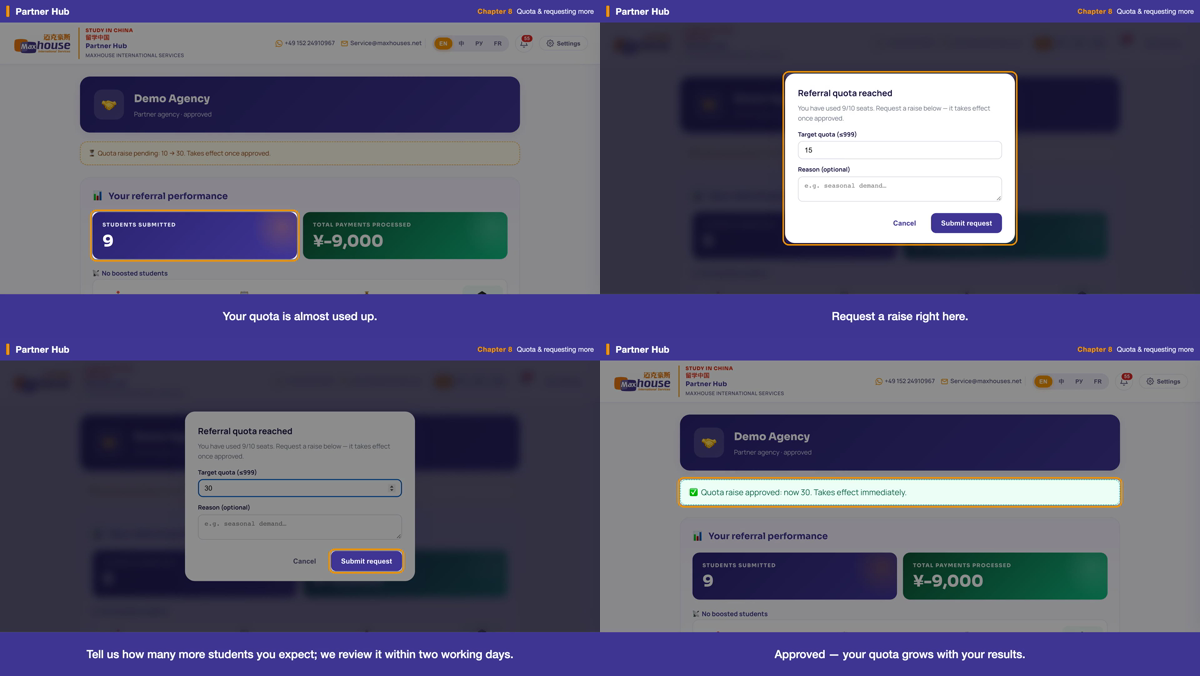
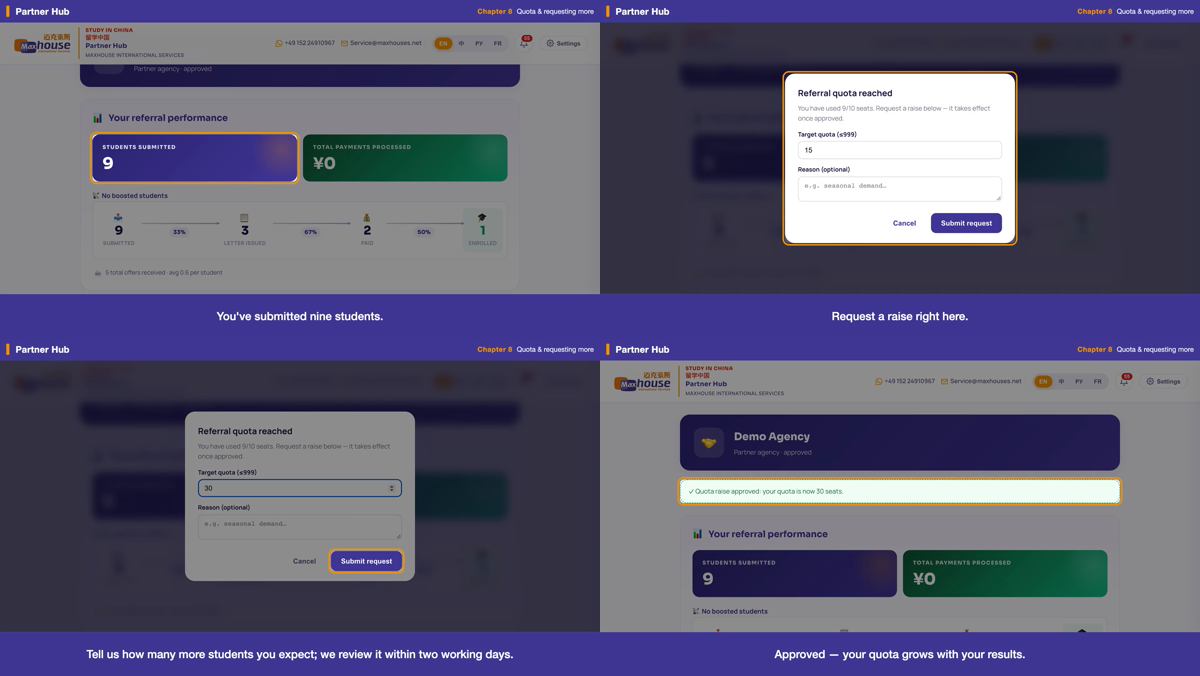
JOB-GP1 trip32: ch8 名额/提额章 v185 四语横竖定版重录(review1 §三.7+§一)——录前 scoped 去 pending 提额横幅(8-1 无矛盾横幅)、8-1 字幕改述 STUDENTS SUBMITTED 9、8-4 改产品自身 _qrApplyBanner 喂样例渲染真绿条。四语 ch8 联络表(land+port)+4 REVIEW(ch8 §11 四镜全是)+决定账+PROGRESS。verify 17/17 PASS。

diff --git a/JOB-GP1-03-PROGRESS.md b/JOB-GP1-03-PROGRESS.md
@@ -1,4 +1,16 @@
-最后一趟：2026-10-12 第31趟 返工：**做了**＝ch7 工作台章（state 章·最复杂章）v185 四语横竖定版重录，一并落 review1 §二.3 + §三.5 + §一。**§二.3（7-1 两段高亮）**：给 rec.mjs follow() 加 `hl2`（前半 dwell 框 hl、后半切 hl2），7-1 先框真揭晓校名条 `.admission-id-tag--unlocked`（🔓 Demo University·演示大学·Wuhan/武汉·SCH-1AD6C8）、再框下载钮 `.admission-doc-btn-letter`——完成 trip21 明文「待 ch7 一并做」的两段高亮；7-1 字幕/配音 trip21 已改，本趟只改高亮。亲验 en-land phase1(f00032)/phase2(f00037) 原始帧达标，8 录屏 7-1 hl+hl2 全 resolve。**§三.5（7-4 字幕对账）**：读源实证病根＝卡徽章 `s.status=r.stage||'pending'`(L7311) 读废弃列 students.stage（恒 NULL，与缺陷2/漏斗同根）→ 恒 pending、gate_open 覆盖成蓝「Documents approved·matching」，产品**从不在列表卡徽章真显 enrolled**（已知产品问题，trip28 已记、留 SUMMARY）；但卡**状态行** `.partner-student-issue`（源 cloudTl.completed）稳定真显「⏳ Admission complete」＝review1 §三.5 观察——走 §三.5 兜底，7-4 字幕由「Enrolled. Done.」改**与状态行逐字一致**：en「Admission complete.」/ zh「录取完成。」/ ru「Зачисление завершено.」/ fr「Admission terminée.」，四语重配音。亲验四语 7-4 真帧：产品**真本地化**渲染状态行、与字幕**逐字对账**（ru/fr 非英文回退）。未改产品码。**§一**：7-4 卡「Invested ¥0」无负数（v185，缺陷1 销账）。state 章安全闸：先空跑状态往返证复位可靠（dirty→reset→verify 17/17）；每片前 st-pt07-pay-cleanup（每片 7-0 真付 ¥0 写 letter_paid_at）+ 末 st-pt0708-reset-cleanup。8 片全 res OK+audio yes+no @gmail+5 镜 hl 全 resolve（7-1 含 hl2）。时长 land en44.66/zh44.00/ru43.29/fr43.60·port en43.29/zh43.24/ru43.23/fr43.52s。开工+收工 verify **17/17 PASS 0 FAIL**，baseline 守住（scoped 复位）。ch7 v1 早在 _v1/ 留底、dist 覆盖 v2。**全片不重拼**（待全部工作台章完后统一拼）。主仓库点名提交 JOB-GP1（b7a4ad4）不推；四语 ch7 联络表(land+port)+4 REVIEW+决定账+PROGRESS 推 mh-jobs。**下趟**＝下一含工作台章定版重录（ch8 §三.7 横幅 scoped 撤待审提额 / ch5 5-1+5-4 两态 / ch9 v185 背景重录 / ch10 / OP-3·4·5 开场快剪），一趟一章；全部完后四语过十一项重审+重拼全片→写 SUMMARY-GP1。**GP-1 未收官，勿据旧『收官』停工。**
+最后一趟：2026-10-13 第32趟 返工：**做了**＝ch8 名额/提额章（state 章）v185 四语横竖定版重录，落 review1 §三.7 + §一。**§三.7（8-1 横幅矛盾）**：基线有一张 pending quota_request（verify #13）→ 工作台顶恒显 amber「Quota raise pending: 10→30」，与 8-2/8-3「才去申请」矛盾。读产品源（partner v185 L14679-14757 `_qrApplyBanner`）定逻辑：pending 行→amber 横幅；否则看最新裁决行，decided_at 空→box 空。做法＝新建 `st-ch8-quota-off.sql` 单列可逆 UPDATE 把该行 `status='pending'→'approved'`（decided_at 保持 NULL）→ 横幅清空（8-1/8-2/8-3 无横幅），`referral_quota` 不动（仍 10，hero 数字不变）；录后 `st-ch8-quota-restore.sql` 还原 pending → verify #13 回基线。**8-1 字幕随 §11 改**：产品无常驻名额表（§三.1 已证），去横幅后 8-1 高亮 `.partner-stats-hero-card` 仅显「STUDENTS SUBMITTED 9」→ 字幕「Your quota is almost used up.」改述屏真有的数「You've submitted nine students.」（zh「你已提交九名学生。」/ru/fr 重译回译），四语重配音；「名额已满」语境由 8-2 弹窗标题「Referral quota reached · used 9/10」承接，8-2 不改。**8-4 改前端伪造为产品自身渲染（§8 先例）**：旧 8-4 改写 pending 卡造绿条（去横幅后无此卡）→ 改调产品自身 `_qrApplyBanner()` 喂样例已批数据，hl 改 `#qrPendingBanner`，渲染真·绿条——zh 真中文「提额申请已批准：配额已调整为 30 席」、en/ru/fr 走产品 LL 的 EN 回退（＝D-18-4 记录的真产品行为）；因 hero 卡不显名额数，8-4「now 30 seats」与屏上无名额数字冲突（§十 数字一致守住）。**§一**：8-1/8-4 hero「TOTAL PAYMENTS PROCESSED ¥0」无负数（缺陷1 销账）。登录态只读探针 `_probe-ch8-fns.mjs` 实证产品函数/let 变量 eval 可达 + 喂样例渲染真绿条。8 片全 res OK+audio yes+no @gmail+4 镜 hl 全 resolve。亲验：EN land 8-1（无横幅框 9）/8-4（产品绿条非伪造）原始帧 + 四语 land 联络表 + en-port 联络表（§11 四镜全「是」，写入 REVIEW-*-shots）。时长 land en30.32/zh28.31/ru30.80/fr31.89·port en30.07/zh28.26/ru30.80/fr31.68s。开工+收工 verify **17/17 PASS 0 FAIL**，baseline 守住（scoped 复位，无全量 rebuild）。ch8 v1 早在 _v1/ 留底、dist 覆盖 v2。**全片不重拼**（待全部工作台章完后统一拼）。主仓库点名提交 JOB-GP1 不推；四语 ch8 联络表(land+port)+4 REVIEW+决定账+PROGRESS 推 mh-jobs。**下趟**＝下一含工作台章定版重录（ch5 5-1 工作台+5-4 两态 / ch9 9-2·9-3 已改需 v185 背景重录 / ch10 读-only / OP-3·4·5 开场快剪），一趟一章；全部完后四语过十一项重审+重拼全片→写 SUMMARY-GP1。**GP-1 未收官，勿据旧『收官』停工。**
+
+# 第 32 趟（2026-10-13 Mac mini 无人值守）· ch8 名额/提额章 v185 定版重录（review1 §三.7 + §一）
+- **接手核对**：git status + 读齐 PROGRESS/loop-tail/RULING-b-review1/-c-rework/-d-funnel/-e-v185-live/-gp1/DECISIONS/storyboard/QUEUE。trip31 ch7 已定版；下趟列 ch8 首。首行开工即改「返工进行中」，开工 verify **17/17 PASS**。
+- **取证（只读探针，不写库）**：`_probe-ch8-quota.sql`/`_probe-ch8-qrrow.sql`（基线 pending quota_request 全字段 + status check 约束）、`_probe-ch8-fns.mjs`（登录态·证产品 `_qrApplyBanner`/`_qrOpenRaise` eval 可达 + let 变量可赋值 + 喂样例渲染真绿条 + `#qrPendingBanner` 在）。读产品源定横幅逻辑。
+- **改法**：见首行 + D-32-1。state：st-ch8-quota-off/restore（单列可逆 UPDATE，无 delete/reinsert/FK）。shots-v1.json 8-1 cap + 8-4 pre/hl 重写；captions-v1.json 8-1 四语；tts `--force-ids 8-1` 四语重配。
+- **录制闭环**：verify 17/17 → st-ch8-quota-off → en-land 亲验 → 批量录 7 变体（带引号位置参数避 LEDGER-3）→ 合成 8 → st-ch8-quota-restore → 收工 verify 17/17。
+- **自验**：8 片 res/audio/no-@gmail/hl 全过；亲验 EN land 8-1/8-4 原始帧 + 四语联络表；§十一对账四语写 REVIEW-*-shots.md（ch8 节）。
+- **DB**：开工+收工 verify **17/17 PASS 0 FAIL**，零残留。
+- **改了**（主仓库，点名 JOB-GP1，不推）：states/st-ch8-quota-off.sql(新)、states/st-ch8-quota-restore.sql(新)、rec/shots-v1.json(8-1/8-4)、captions-v1.json(8-1)、rec/_probe-ch8-*(3 新·只读)、REVIEW-{en,zh,ru,fr}-shots.md、DECISIONS.md。voice/8-1 四语重配、成片不入 git；ch8 v1 在 _v1/、dist 覆盖 v2。四语 ch8 联络表+4 REVIEW+决定账+PROGRESS 推 mh-jobs。
+- **下趟**：ch5/ch9/ch10/OP-3·4·5，一趟一章；全部完后十一项重审+重拼全片→写 SUMMARY-GP1。GP-1 未收官。
+
+【上一趟（第31趟）首行存档】最后一趟：2026-10-12 第31趟 返工：**做了**＝ch7 工作台章（state 章·最复杂章）v185 四语横竖定版重录，一并落 review1 §二.3 + §三.5 + §一。**§二.3（7-1 两段高亮）**：给 rec.mjs follow() 加 `hl2`（前半 dwell 框 hl、后半切 hl2），7-1 先框真揭晓校名条 `.admission-id-tag--unlocked`（🔓 Demo University·演示大学·Wuhan/武汉·SCH-1AD6C8）、再框下载钮 `.admission-doc-btn-letter`——完成 trip21 明文「待 ch7 一并做」的两段高亮；7-1 字幕/配音 trip21 已改，本趟只改高亮。亲验 en-land phase1(f00032)/phase2(f00037) 原始帧达标，8 录屏 7-1 hl+hl2 全 resolve。**§三.5（7-4 字幕对账）**：读源实证病根＝卡徽章 `s.status=r.stage||'pending'`(L7311) 读废弃列 students.stage（恒 NULL，与缺陷2/漏斗同根）→ 恒 pending、gate_open 覆盖成蓝「Documents approved·matching」，产品**从不在列表卡徽章真显 enrolled**（已知产品问题，trip28 已记、留 SUMMARY）；但卡**状态行** `.partner-student-issue`（源 cloudTl.completed）稳定真显「⏳ Admission complete」＝review1 §三.5 观察——走 §三.5 兜底，7-4 字幕由「Enrolled. Done.」改**与状态行逐字一致**：en「Admission complete.」/ zh「录取完成。」/ ru「Зачисление завершено.」/ fr「Admission terminée.」，四语重配音。亲验四语 7-4 真帧：产品**真本地化**渲染状态行、与字幕**逐字对账**（ru/fr 非英文回退）。未改产品码。**§一**：7-4 卡「Invested ¥0」无负数（v185，缺陷1 销账）。state 章安全闸：先空跑状态往返证复位可靠（dirty→reset→verify 17/17）；每片前 st-pt07-pay-cleanup（每片 7-0 真付 ¥0 写 letter_paid_at）+ 末 st-pt0708-reset-cleanup。8 片全 res OK+audio yes+no @gmail+5 镜 hl 全 resolve（7-1 含 hl2）。时长 land en44.66/zh44.00/ru43.29/fr43.60·port en43.29/zh43.24/ru43.23/fr43.52s。开工+收工 verify **17/17 PASS 0 FAIL**，baseline 守住（scoped 复位）。ch7 v1 早在 _v1/ 留底、dist 覆盖 v2。**全片不重拼**（待全部工作台章完后统一拼）。主仓库点名提交 JOB-GP1（b7a4ad4）不推；四语 ch7 联络表(land+port)+4 REVIEW+决定账+PROGRESS 推 mh-jobs。**下趟**＝下一含工作台章定版重录（ch8 §三.7 横幅 scoped 撤待审提额 / ch5 5-1+5-4 两态 / ch9 v185 背景重录 / ch10 / OP-3·4·5 开场快剪），一趟一章；全部完后四语过十一项重审+重拼全片→写 SUMMARY-GP1。**GP-1 未收官，勿据旧『收官』停工。**
 
 # 第 31 趟（2026-10-12 Mac mini 无人值守）· ch7 工作台章定版重录 v185（review1 §二.3 + §三.5 + §一）
 - **接手核对**：git status + 读齐 PROGRESS/loop-tail/RULING-b-review1/-c-rework/-d-funnel/-e-v185-live/DECISIONS/storyboard/QUEUE。trip30 ch3 已定版，下趟＝ch7。开工即改首行「返工进行中」，开工 verify **17/17 PASS**。

diff --git a/JOB-GP1-decisions.md b/JOB-GP1-decisions.md
@@ -577,3 +577,17 @@
 - **改了**（主仓库，点名 JOB-GP1，不推）：rec/rec.mjs（+hl2 两段高亮）、rec/shots-v1.json（7-1 hl→校名条+hl2 下载钮、7-4 capEN/capZH→Admission complete/录取完成）、captions-v1.json（7-4 四语）、rec/_probe-ch7-dom.mjs / _probe-ch7-74-langs.mjs / _probe-ch7-74-txt.mjs / _probe-ch7-74-stable.mjs（新·只读探针）、REVIEW-{en,zh,ru,fr}-shots.md、DECISIONS.md。voice/7-4 四语重配（不入 git）；ch7 v1 早在 _v1/ 留底，dist 覆盖 v2。四语 ch7 联络表+4 REVIEW+决定账+PROGRESS 推 mh-jobs。
 - **全片不重拼**：bookend/film/trailer 待全部工作台章定版重录完后统一拼。
 - **下趟**：下一含工作台章定版重录——ch8（§三.7 横幅 scoped 撤待审提额）/ ch5（5-1 工作台 + 5-4 两态）/ ch9（9-2/9-3 已改·需 v185 背景重录）/ ch10 / OP-3·4·5 开场快剪。一趟一章；全部完后四语十一项重审+重拼全片→写 SUMMARY-GP1。**GP-1 未收官。**
+
+## D-32-1（返工第32趟 2026-10-13）· ch8 名额/提额章（state 章）v185 定版重录 · review1 §三.7 + §一
+- **选题**：按 trip31「下趟」与 review1 §八顺序挑 ch8——压着 §三.7（8-1 横幅与 8-2/8-3 叙事矛盾）+ §一（工作台 v185 背景）。开工 verify 17/17 PASS，首行即改「返工进行中」。
+- **取证（只读）**：`rec/_probe-ch8-quota.sql`/`_probe-ch8-qrrow.sql`（基线＝1 张 pending quota_request id=77308181…·requested 30·quota 10·verify #13）；`rec/_probe-ch8-fns.mjs`（登录态探针）实证：产品 `_qrApplyBanner`/`_qrOpenRaise` 均 eval 可达、`let _qrPendingRow/_qrLatestRow/_qrLoaded` 可被 eval 赋值、`#qrPendingBanner` 元素在；喂样例已批数据 → 产品自身渲染绿条「✓ Quota raise approved: your quota is now 30 seats.」(zh 真中文)。读产品源（partner v185 L14679-14757）定横幅逻辑：pending 行→amber；否则看最新裁决行，decided_at 空或超 7 天→box 空。
+- **§三.7 做法（录前 scoped 去横幅，证真态机制）**：
+  - 病：基线 pending 行致工作台顶恒显 amber「Quota raise pending: 10→30」，与 8-2/8-3「才去申请」矛盾。
+  - 法：新建 `states/st-ch8-quota-off.sql`——单列可逆 UPDATE 把该行 `status='pending'→'approved'`（`decided_at` 保持 NULL），产品判非 pending 且最新行未裁决 → 横幅清空；`partners.referral_quota` 不动（仍 10，hero 卡/数字一字不变）。无 delete/无 reinsert/无 FK 触碰。录后 `states/st-ch8-quota-restore.sql` 还原 `status='pending'`+清裁决字段 → verify #13 回基线。
+- **8-1 字幕随 §11 改（四语重配音）**：产品无常驻名额表（review1 §三.1 已证），去横幅后 8-1 高亮 `.partner-stats-hero-card` 仅显「STUDENTS SUBMITTED 9」→ 字幕「Your quota is almost used up.」→「You've submitted nine students.」（zh「你已提交九名学生。」/ ru「Вы подали заявки на девять студентов.」回译=submitted applications for nine students / fr「Vous avez soumis neuf étudiants.」）。「名额已满」语境由 8-2 弹窗标题「Referral quota reached · used 9/10」承接 → 8-2 字幕不改。`captions-v1.json` 8-1 四语 + `shots-v1.json` 8-1 capEN/capZH 同步改（en/zh 逐字一致）；`tts-gp1.mjs --force-ids 8-1` 四语重配（新时长 en1.606/zh1.945/ru2.273/fr1.575s，皆在域）。
+- **8-4 改前端伪造为产品自身渲染（§8 先例）**：旧 8-4 `pre` 改写 pending 卡文本造绿条——去横幅后无此卡 → 失效。改调产品自身 `_qrApplyBanner()` 喂样例已批数据（`_qrLatestRow={status:'approved',requested_quota:30,decided_at:new Date()}`），hl 改 `#qrPendingBanner`，expect 改 `['#qrPendingBanner']`，去 `pre_zh`（产品 LL 自动本地化）。渲染真·绿条，zh 真中文「提额申请已批准：配额已调整为 30 席」、en/ru/fr 走产品 LL 的 EN 回退（＝D-18-4 记录的真产品行为，非本趟引入）。因 hero 卡不显名额数，8-4「now 30 seats」横幅与屏上无任何名额数字冲突（§十.数字一致 守住）。
+- **录制闭环**：verify 17/17 → st-ch8-quota-off → 先录 en-land 亲验（8-1 无横幅框 9 / 8-4 产品绿条）→ 批量录其余 7 变体（带引号位置参数 `rec1(){...--orient "$2" --lang "$1"}` 避 LEDGER-3 分词）→ 合成 8 片 → st-ch8-quota-restore → verify 17/17。8 片全 res OK+audio yes+no @gmail+4 镜 hl 全 resolve。
+- **自验**：四语 land 联络表 + en-port 联络表 + EN land 8-1/8-4 原始帧逐张亲验（见 REVIEW-*-shots ch8 节·§11 四镜全「是」）。时长 land en30.32/zh28.31/ru30.80/fr31.89 · port en30.07/zh28.26/ru30.80/fr31.68s。
+- **DB**：ch8 开工+收工 verify **17/17 PASS 0 FAIL**，baseline 守住（scoped 复位，无全量 rebuild）。
+- **改了**（主仓库，点名 JOB-GP1，不推）：`states/st-ch8-quota-off.sql`(新)、`states/st-ch8-quota-restore.sql`(新)、`rec/shots-v1.json`(8-1 cap+action、8-4 pre/hl/expect 重写)、`captions-v1.json`(8-1 四语)、`rec/_probe-ch8-quota.sql`/`_probe-ch8-qrrow.sql`/`_probe-ch8-fns.mjs`(新·只读)、`REVIEW-{en,zh,ru,fr}-shots.md`、`DECISIONS.md`。voice/8-1 四语重配、成片不入 git；ch8 v1 早在 `_v1/` 留底、dist 覆盖 v2。全片不重拼（待全部工作台章完后统一拼）。四语 ch8 联络表(land+port)+4 REVIEW+决定账+PROGRESS 推 mh-jobs。
+- **下趟**：下一含工作台章定版重录——ch5（5-1 工作台 + 5-4 两态·需 st-pt03-reupload 两态分录）/ ch9（9-2/9-3 已改·需 v185 背景重录）/ ch10（读-only）/ OP-3·4·5 开场快剪。一趟一章；全部完后四语十一项重审+重拼全片→写 SUMMARY-GP1。**GP-1 未收官。**

diff --git a/JOB-GP1-REVIEW-en-shots.md b/JOB-GP1-REVIEW-en-shots.md
@@ -127,3 +127,21 @@
 - 时长：land 44.66s / port 43.29s（5 镜）。8 片（四语横竖）全 res OK + audio yes。全片 DOM 扫描 **no @gmail**；8 录屏 5 镜 hl 全 resolve（7-1 含 hl2），零 MISS。
 - 逐张亲眼复验（EN land 全 5 镜原始帧）：7-0 ¥0.00 橙框 + ¥3,000 删除线 + MAXHOUSE（邮箱掩码 agency.demo@example.com、app id MH-NEPTRN）；7-1 phase1 框校名条、phase2 框下载钮（§二.3 达标）；7-4 状态行「⏳ Admission complete」= 字幕逐字、「Invested ¥0」无负数（§一/缺陷1 销账）；无 beta/内测/test 控件；页头平台 WhatsApp/Email 不遮（D-14-3/D-15-1）。
 - 记账（留业主·已知产品问题）：7-4 卡**徽章**「Documents approved · matching」（蓝 pending）对已入学生恒显矛盾——根因 `s.status = r.stage||'pending'`（L7311）读废弃列 students.stage（恒 NULL），非本趟引入，未改产品码（§三.5 兜底），留 SUMMARY。收工 verify 17/17 PASS，baseline 守住。
+
+## ch8 §三.7（横幅：录前 scoped 撤待审提额）+ §一（工作台 v185，返工第32趟 2026-10-13 · 定版重录）
+前置：ch8 是 state 章。基线有一张 pending quota_request（verify #13）→ 工作台顶恒显 amber「Quota raise pending: 10→30」，与 8-2/8-3「才去申请」叙事矛盾（review1 §三.7）。
+- **§三.7 做法**：录前 scoped 把该行 `status='approved'`（`decided_at` 保持 NULL）→ 产品 `_qrApplyBanner` 判非 pending 且最新行未裁决 → 横幅清空（8-1/8-2/8-3 无横幅）；`partners.referral_quota` 不动（仍 10）。录后 restore 还原 pending，verify #13 回基线。
+- **8-1 字幕随 §11 改**：产品**无常驻名额表**（review1 §三.1 已证），去横幅后 8-1 高亮的 `.partner-stats-hero-card` 只显「STUDENTS SUBMITTED 9」→ 字幕由「Your quota is almost used up.」改述屏真有的数「You've submitted nine students.」（四语重配音）；「名额已满」语境由 8-2 弹窗标题「Referral quota reached · used 9/10」承接。
+- **8-4 改前端示意为产品自身渲染**：旧 8-4 改写 pending 卡文本造绿条（去横幅后无此卡）→ 改调产品自身 `_qrApplyBanner()` 喂样例已批数据（§8 先例「用产品自己的渲染函数喂样例」），渲染真·绿条；横幅四语由产品 LL 本地化（zh 真中文、en/ru/fr 走产品 LL 的 EN 回退＝D-18-4 记录的真产品行为）。
+- **§一**：8-1/8-4 工作台 hero「TOTAL PAYMENTS PROCESSED ¥0」无负数（缺陷1 销账）；hero 卡**不显名额数**，故 8-4「now 30 seats」横幅与屏上无任何名额数字冲突。
+
+| 镜 | 字幕原文 | 高亮区 DOM 实际文字（从 v185 真帧 DOM 读） | 同一件事？ |
+|----|----------|---------------------|-----------|
+| 8-1 | You've submitted nine students. | `.partner-stats-hero-card`「STUDENTS SUBMITTED · 9」（**无** pending 横幅；同屏 TOTAL PAYMENTS PROCESSED ¥0 无负数、漏斗 9→3→2→1·5 offer·人均 0.6） | 是 |
+| 8-2 | Request a raise right here. | `.modal-bg.show .modal-body`「Referral quota reached · You have used 9/10 seats. Request a raise below — it takes effect once approved.」+ 目标名额/理由表单 | 是 |
+| 8-3 | Tell us how many more students you expect; we review it within two working days. | `.modal-bg.show .btn-primary`「Submit request」（表单已填目标 30 + 理由；不真提交·零写库） | 是 |
+| 8-4 | Approved — your quota grows with your results. | `#qrPendingBanner`「✓ Quota raise approved: your quota is now 30 seats.」（产品自身 `_qrApplyBanner` 喂样例渲染·§8 先例·绿条） | 是 |
+
+- 时长：land 30.32s / port 30.07s（4 镜）。8 片（四语横竖）全 res OK + audio yes。全片 DOM 扫描 **no @gmail**；8 录屏 4 镜 hl 全 resolve、零 MISS。
+- 逐张亲眼复验（EN land 8-1/8-4 原始帧 + 四语 land 联络表 + en-port 联络表）：8-1 **无 pending 横幅**、框住 STUDENTS SUBMITTED 9（§三.7 达标）；8-4 产品绿条「approved: now 30 seats」（非伪造 HTML）；全程 ¥0 无负数、Demo Agency 无真 PII、邮箱掩码、无 beta/内测/test 控件、页头平台 WhatsApp/Email 不遮（D-14-3/D-15-1）。
+- 记账：8-3 不真提交（零写库）；录前 st-ch8-quota-off（status→approved/decided_at NULL）、录后 st-ch8-quota-restore（→pending）；开工+收工 verify 17/17 PASS，baseline 守住（scoped 复位，无全量 rebuild）。

diff --git a/JOB-GP1-REVIEW-ru-shots.md b/JOB-GP1-REVIEW-ru-shots.md
@@ -85,3 +85,16 @@ D-18-4：RU 界面里产品动态串回退成英文（PREMIUM SERVICES / Audit S
 
 - 时长：land 43.293401s / port 43.234512s（5 镜）。横竖 2 片 res OK + audio yes，no @gmail，5 镜 hl 全 resolve（7-1 含 hl2）。章节条左标签 Partner Hub（D-18-4/RULING-c §3）；页头平台 WhatsApp/Email 不遮。
 - 记账（留业主·已知产品问题）：7-4 卡徽章「Документы одобрены · подбор」对已入学生恒显矛盾（根因 students.stage 恒 NULL），未改产品码（§三.5 兜底），留 SUMMARY。
+
+## ch8 §三.7（横幅：录前 scoped 撤待审提额）+ §一（工作台 v185，返工第32趟 2026-10-13）
+做法同 en/zh 节。RU 界面动态串走产品 LL 的 EN 回退（D-18-4 记录的真产品行为），故 8-2「Referral quota reached」/8-4「Quota raise approved: now 30 seats」横幅为英文；字幕为俄文，描述同一件事。8-1 字幕随 §11 改述「STUDENTS SUBMITTED 9」。
+
+| 镜 | 字幕原文(ru) | 高亮区 DOM 实际文字（产品 EN 回退） | 同一件事？ |
+|----|----------|---------------------|-----------|
+| 8-1 | Вы подали заявки на девять студентов. | `.partner-stats-hero-card`「STUDENTS SUBMITTED · 9」（无横幅；¥0 无负数、漏斗 9→3→2→1） | 是 |
+| 8-2 | Запросите увеличение прямо здесь. | `.modal-bg.show .modal-body`「Referral quota reached · used 9/10 seats」+ 表单 | 是 |
+| 8-3 | Укажите, сколько ещё студентов вы ожидаете; мы рассмотрим запрос за два рабочих дня. | `.modal-bg.show .btn-primary`「Submit request」（表单已填 30 + 理由） | 是 |
+| 8-4 | Одобрено — квота растёт вместе с вашими результатами. | `#qrPendingBanner`「✓ Quota raise approved: your quota is now 30 seats.」（产品自身 `_qrApplyBanner` 喂样例） | 是 |
+
+- 时长：land 30.80s / port 30.80s（4 镜）。全 res OK + audio yes，no @gmail，4 镜 hl 全 resolve。
+- 亲验 ru land 联络表四镜：8-1 无横幅框 9、章节条俄文「Глава 8 · Квота и увеличение」、8-4 绿条（EN 回退·产品渲染）；¥0 无负数、无 beta。收工 verify 17/17 PASS。

diff --git a/JOB-GP1-REVIEW-zh-shots.md b/JOB-GP1-REVIEW-zh-shots.md
@@ -94,3 +94,16 @@
 
 - 时长：land 43.997846s / port 43.244172s（5 镜）。横竖 2 片 res OK + audio yes，no @gmail，5 镜 hl 全 resolve（7-1 含 hl2）。亲验 zh-land 联络表：7-0 ¥0 橙框、7-1 校名条揭晓、7-4 状态行「录取完成」= 字幕逐字、「Invested ¥0」无负数、页头平台 WhatsApp/Email 不遮。
 - 记账（留业主·已知产品问题）：7-4 卡徽章「材料已通过·匹配中」对已入学生恒显矛盾（根因 students.stage 恒 NULL），未改产品码（§三.5 兜底），留 SUMMARY。
+
+## ch8 §三.7（横幅：录前 scoped 撤待审提额）+ §一（工作台 v185，返工第32趟 2026-10-13）
+处理同 REVIEW-en-shots 的 ch8 节：录前 scoped 置该 pending quota_request `status='approved'`（decided_at NULL）→ 去横幅；8-1 字幕随 §11 改为述屏真有的「STUDENTS SUBMITTED 9」；8-4 改调产品自身 `_qrApplyBanner` 喂样例（§8 先例），中文横幅走产品真中文渲染。录后 restore 回 pending。
+
+| 镜 | 字幕原文 | 高亮区 DOM 实际文字 | 同一件事？ |
+|----|----------|---------------------|-----------|
+| 8-1 | 你已提交九名学生。 | `.partner-stats-hero-card`「已提交学生总数 · 9」（无提额横幅；同屏 ¥0 无负数、漏斗 9→3→2→1·5 offer·人均 0.6） | 是 |
+| 8-2 | 在这里申请提额。 | `.modal-bg.show .modal-body`「推荐名额已用完 · 当前 9/10 席已用。可向平台申请提额，批准后立即生效。」+ 表单 | 是 |
+| 8-3 | 填预计人数，平台 2 个工作日内审核。 | `.modal-bg.show .btn-primary`「提交申请」（表单已填目标 30 + 理由；不真提交） | 是 |
+| 8-4 | 已批，名额随业绩增长。 | `#qrPendingBanner`「✓ 提额申请已批准：配额已调整为 30 席。」（产品自身 `_qrApplyBanner` 喂样例·绿条） | 是 |
+
+- 时长：land 28.31s / port 28.26s（4 镜）。全 res OK + audio yes，no @gmail，4 镜 hl 全 resolve。
+- 亲验 zh land 联络表四镜：8-1 无横幅框 9、8-2 真中文「推荐名额已用完」、8-4 真中文绿条「提额申请已批准：配额已调整为 30 席」；¥0 无负数、演示生无真 PII、无 beta。收工 verify 17/17 PASS。

diff --git a/JOB-GP1-REVIEW-fr-shots.md b/JOB-GP1-REVIEW-fr-shots.md
@@ -85,3 +85,16 @@ D-18-4：FR 界面里产品动态串回退成英文（PREMIUM SERVICES / Audit S
 
 - 时长：land 43.596644s / port 43.518685s（5 镜）。横竖 2 片 res OK + audio yes，no @gmail，5 镜 hl 全 resolve（7-1 含 hl2）。章节条左标签 Partner Hub（D-18-4/RULING-c §3）；页头平台 WhatsApp/Email 不遮。
 - 记账（留业主·已知产品问题）：7-4 卡徽章「Documents validés · mise en relation」对已入学生恒显矛盾（根因 students.stage 恒 NULL），未改产品码（§三.5 兜底），留 SUMMARY。
+
+## ch8 §三.7（横幅：录前 scoped 撤待审提额）+ §一（工作台 v185，返工第32趟 2026-10-13）
+做法同 en/zh 节。FR 界面动态串走产品 LL 的 EN 回退（D-18-4），故 8-2/8-4 横幅为英文；字幕为法文，描述同一件事。8-1 字幕随 §11 改述「STUDENTS SUBMITTED 9」。
+
+| 镜 | 字幕原文(fr) | 高亮区 DOM 实际文字（产品 EN 回退） | 同一件事？ |
+|----|----------|---------------------|-----------|
+| 8-1 | Vous avez soumis neuf étudiants. | `.partner-stats-hero-card`「STUDENTS SUBMITTED · 9」（无横幅；¥0 无负数、漏斗 9→3→2→1） | 是 |
+| 8-2 | Demandez une augmentation ici même. | `.modal-bg.show .modal-body`「Referral quota reached · used 9/10 seats」+ 表单 | 是 |
+| 8-3 | Indiquez combien d'étudiants supplémentaires vous prévoyez ; nous l'examinons sous deux jours ouvrés. | `.modal-bg.show .btn-primary`「Submit request」（表单已填 30 + 理由） | 是 |
+| 8-4 | Approuvé — votre quota grandit avec vos résultats. | `#qrPendingBanner`「✓ Quota raise approved: your quota is now 30 seats.」（产品自身 `_qrApplyBanner` 喂样例） | 是 |
+
+- 时长：land 31.89s / port 31.68s（4 镜）。全 res OK + audio yes，no @gmail，4 镜 hl 全 resolve。
+- 亲验 fr land 联络表四镜：8-1 无横幅框 9、章节条法文「Chapitre 8 · Quota et augmentation」、8-4 绿条（EN 回退·产品渲染）；¥0 无负数、无 beta。收工 verify 17/17 PASS。
